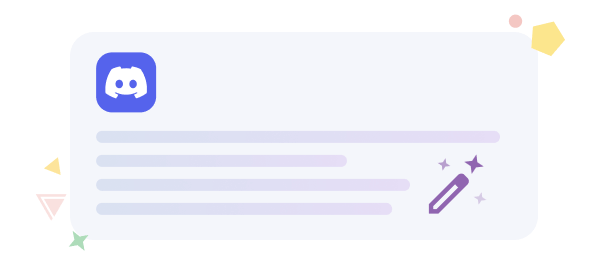
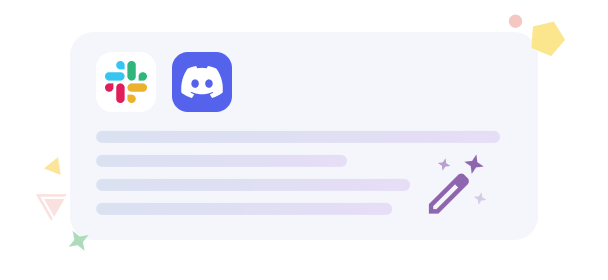
chore: enable `Slack` instant reply

Changed region(s): [[0.1562, 0.1714, 0.4062, 0.4286]]

diff --git a/src/pages/settings/pages/help_me_write/index.tsx b/src/pages/settings/pages/help_me_write/index.tsx
@@ -1,8 +1,6 @@
 import Stack from '@mui/material/Stack'
 import React, { FC } from 'react'
 
-// import FeatureWhatsAppAssistantCard from '@/pages/settings/pages/help_me_write/FeatureWhatsAppAssistantCard'
-// import FeatureSlackAssistantCard from '@/pages/settings/pages/help_me_write/FeatureSlackAssistantCard'
 import FeatureDiscordAssistantCard from '@/pages/settings/pages/help_me_write/FeatureDiscordAssistantCard'
 import FeatureFacebookAssistantCard from '@/pages/settings/pages/help_me_write/FeatureFacebookAssistantCard'
 import FeatureGmailAssistantCard from '@/pages/settings/pages/help_me_write/FeatureGmailAssistantCard'
@@ -10,6 +8,8 @@ import FeatureInstagramAssistantCard from '@/pages/settings/pages/help_me_write/
 import FeatureLinkedInAssistantCard from '@/pages/settings/pages/help_me_write/FeatureLinkedInAssistantCard'
 import FeatureOutlookAssistantCard from '@/pages/settings/pages/help_me_write/FeatureOutlookAssistantCard'
 import FeatureRedditAssistantCard from '@/pages/settings/pages/help_me_write/FeatureRedditAssistantCard'
+// import FeatureWhatsAppAssistantCard from '@/pages/settings/pages/help_me_write/FeatureWhatsAppAssistantCard'
+import FeatureSlackAssistantCard from '@/pages/settings/pages/help_me_write/FeatureSlackAssistantCard'
 import FeatureTwitterAssistantCard from '@/pages/settings/pages/help_me_write/FeatureTwitterAssistantCard'
 import FeatureYouTubeAssistantCard from '@/pages/settings/pages/help_me_write/FeatureYouTubeAssistantCard'
 
@@ -24,8 +24,8 @@ const SettingsHelpMeWritePage: FC = () => {
       <FeatureYouTubeAssistantCard />
       <FeatureInstagramAssistantCard />
       <FeatureRedditAssistantCard />
-      {/* <FeatureWhatsAppAssistantCard />
-      <FeatureSlackAssistantCard /> */}
+      {/* <FeatureWhatsAppAssistantCard /> */}
+      <FeatureSlackAssistantCard />
       <FeatureDiscordAssistantCard />
     </Stack>
   )

diff --git a/src/features/shortcuts/utils/chatApp/platforms/whatsApp.ts b/src/features/shortcuts/utils/chatApp/platforms/whatsApp.ts
@@ -179,10 +179,10 @@ export const whatsAppGetChatMessages = (inputAssistantButton: HTMLElement) => {
 }
 
 export const whatsAppGetDraftContent = (inputAssistantButton: HTMLElement) => {
-  const slackDraftEditor = findSelectorParent(
+  const whatsAppDraftEditor = findSelectorParent(
     'footer [role="textbox"][data-lexical-editor][contenteditable="true"]',
     inputAssistantButton,
     5,
   )
-  return slackDraftEditor?.innerText || ''
+  return whatsAppDraftEditor?.innerText || ''
 }

diff --git a/src/features/contextMenu/components/InputAssistantButton/config.ts b/src/features/contextMenu/components/InputAssistantButton/config.ts
@@ -1407,7 +1407,7 @@ const WritingAssistantButtonGroupConfigs: {
   },
   'reddit.com': RedditWritingAssistantButtonGroupConfigs,
   // 'web.whatsapp.com': WhatsAppWritingAssistantButtonGroupConfigs,
-  // 'app.slack.com': SlackWritingAssistantButtonGroupConfigs,
+  'app.slack.com': SlackWritingAssistantButtonGroupConfigs,
   'discord.com': DiscordWritingAssistantButtonGroupConfigs,
 }
 
